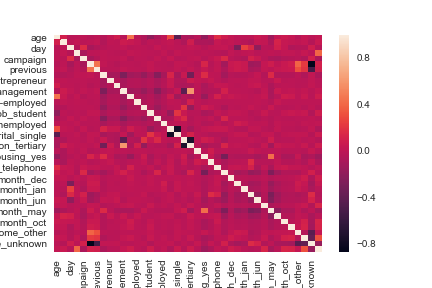
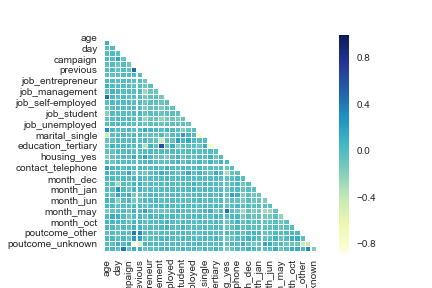
Pretty corr heatmap

diff --git a/analysis/eda.py b/analysis/eda.py
@@ -67,8 +67,8 @@ for col in imput_vars:
         print('Unknowns in ' + col + ' variable imputed successfully!')
     plt.figure()
     sns.countplot(y=col, data=bank, palette='hls')
-    plt.savefig('/Users/Jostein/Grad School/SMU/6372/project3/bank-marketing/plots/'
-                + col + 'imput_count_plot')
+    plt.savefig('/Users/Jostein/Grad School/SMU/6372/project3/bank-marketing/'
+                + 'plots/' + col + 'imput_count_plot')
 
 # Snapshot of the data
 bank.head()
@@ -105,13 +105,34 @@ new_bank.head()
 plt.figure()
 sns.factorplot(y='age', palette="Set3", col="y",
                data=bank, kind="count", size=10, aspect=.7)
-plt.savefig('/Users/Jostein/Grad School/SMU/6372/project3/bank-marketing/plots/dist_age_termdeposit')
+plt.savefig('/Users/Jostein/Grad School/SMU/6372/project3/bank-marketing/'
+            + 'plots/dist_age_termdeposit')
+
+# Distribution of people who subscribe for a term deposit vs don't
+# based on their education level
+plt.figure()
+sns.factorplot(x='education', palette="Set3", col="y",
+               data=bank, kind="count", size=4, aspect=.7)
+plt.savefig('/Users/Jostein/Grad School/SMU/6372/project3/bank-marketing/'
+            + 'plots/dist_educ_termdeposit')
+
+for col in cat_vars:
+    plt.figure()
+    sns.factorplot(x=col, palette="husl", col="y",
+                   data=bank, kind="count", size=5, aspect=.7)
+    plt.savefig('/Users/Jostein/Grad School/SMU/6372/project3/bank-marketing/'
+                + 'plots/dist_' + col + '_termdeposit')
 
 # Now that dummy variables are coded, we can create a
 # heat map of the correlation between variables
 # Source:
-# http://www.data-mania.com/blog/logistic-regression-example-in-python/
-plt.figure()
-sns.heatmap(new_bank.corr())
-plt.savefig('/Users/Jostein/Grad School/SMU/6372/project3/bank-marketing/plots/corr_heatmap')
-
+# http://seaborn.pydata.org/generated/seaborn.heatmap.html?highlight=heatmap#seaborn.heatmap
+corr = new_bank.corr(method='pearson')
+mask = np.zeros_like(corr)
+mask[np.triu_indices_from(mask)] = True
+with sns.axes_style("white"):
+    plt.figure()
+    bank_heatmap_corr = sns.heatmap(corr, mask=mask, square=True,
+                                    linewidths=.1, cmap="YlGnBu")
+    plt.savefig('/Users/Jostein/Grad School/SMU/6372/project3/bank-marketing/'
+                + '/plots/corr_heatmap')
